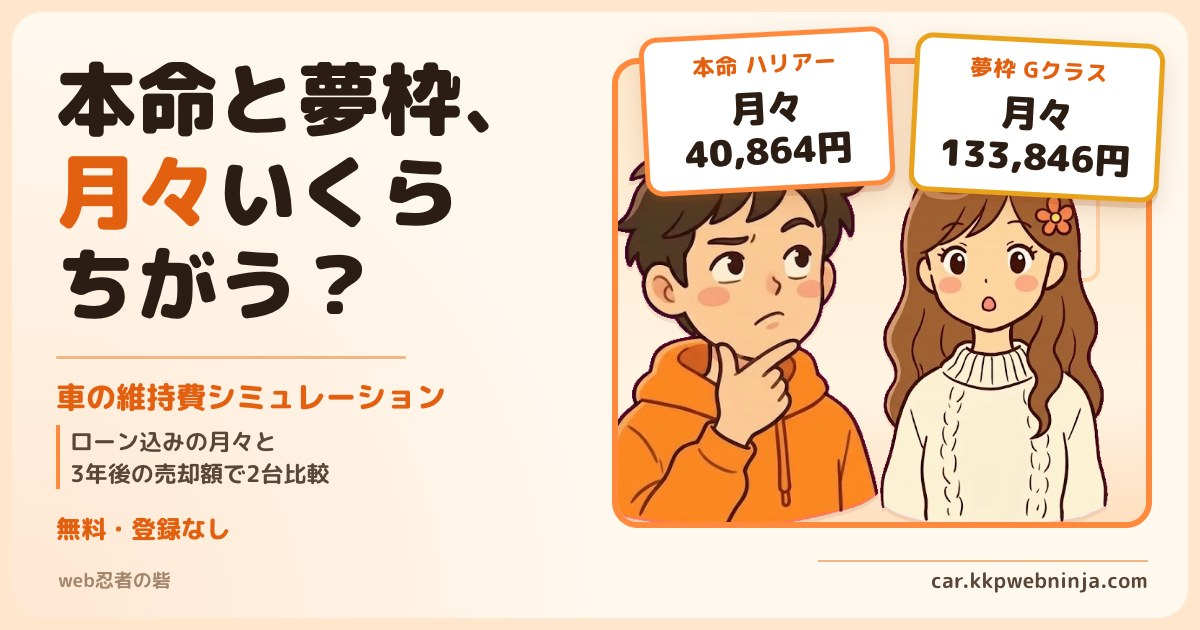
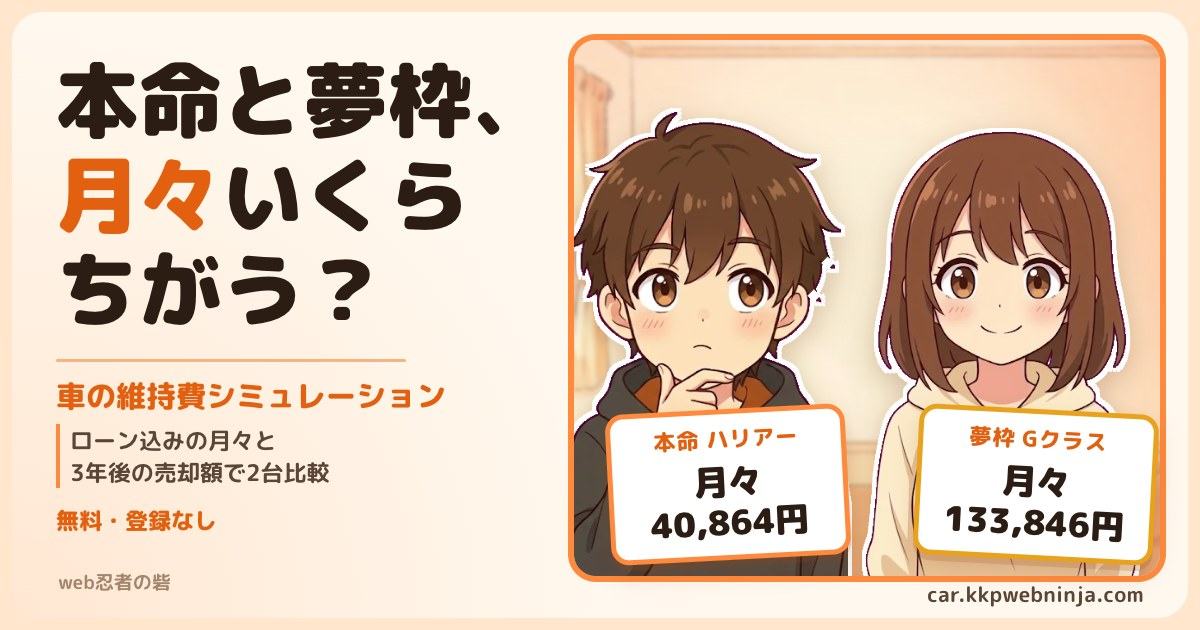
カード画像（OGP）を新しい2人の絵柄で作り直す
Canva の配信カウンターのカードと同じ2人（茶色の髪・オレンジのヘッドホン）を kkp-kit/img/chara2 に作り、人気サムネの型（顔を大きく・白いふち・場面の背景をぼかす・部品は3つまで）に合わせて kkp-kit の型から書き出し直した。
og:image・twitter:image を ?d=20261023b にして、SNS に新しい画像を読み直させる。

diff --git a/articles/jibaiseki-neage-2026.html b/articles/jibaiseki-neage-2026.html
@@ -18,7 +18,7 @@
 <meta property="og:url" content="https://car.kkpwebninja.com/articles/jibaiseki-neage-2026">
 <meta property="og:site_name" content="本命vs夢枠 車コスト比較">
 <meta property="og:locale" content="ja_JP">
-<meta property="og:image" content="https://car.kkpwebninja.com/ogp.jpg?d=20261023">
+<meta property="og:image" content="https://car.kkpwebninja.com/ogp.jpg?d=20261023b">
 <meta name="twitter:card" content="summary_large_image">
 <script async src="https://www.googletagmanager.com/gtag/js?id=G-2LM85GJN0L"></script>
 <script>
@@ -48,7 +48,7 @@
    "dateModified": "2026-09-14",
    "inLanguage": "ja",
    "mainEntityOfPage": "https://car.kkpwebninja.com/articles/jibaiseki-neage-2026",
-   "image": "https://car.kkpwebninja.com/ogp.jpg?d=20261023",
+   "image": "https://car.kkpwebninja.com/ogp.jpg?d=20261023b",
    "author": {
     "@type": "Organization",
     "name": "web忍者の砦"

diff --git a/index.html b/index.html
@@ -21,9 +21,9 @@
 <meta property="og:url" content="https://car.kkpwebninja.com/">
 <meta property="og:site_name" content="本命vs夢枠 車コスト比較">
 <meta property="og:locale" content="ja_JP">
-<meta property="og:image" content="https://car.kkpwebninja.com/ogp.jpg?d=20261023">
+<meta property="og:image" content="https://car.kkpwebninja.com/ogp.jpg?d=20261023b">
 <meta name="twitter:card" content="summary_large_image">
-<meta name="twitter:image" content="https://car.kkpwebninja.com/ogp.jpg?d=20261023">
+<meta name="twitter:image" content="https://car.kkpwebninja.com/ogp.jpg?d=20261023b">
 
 <!-- GA4（砦共通） -->
 <script async src="https://www.googletagmanager.com/gtag/js?id=G-2LM85GJN0L"></script>
